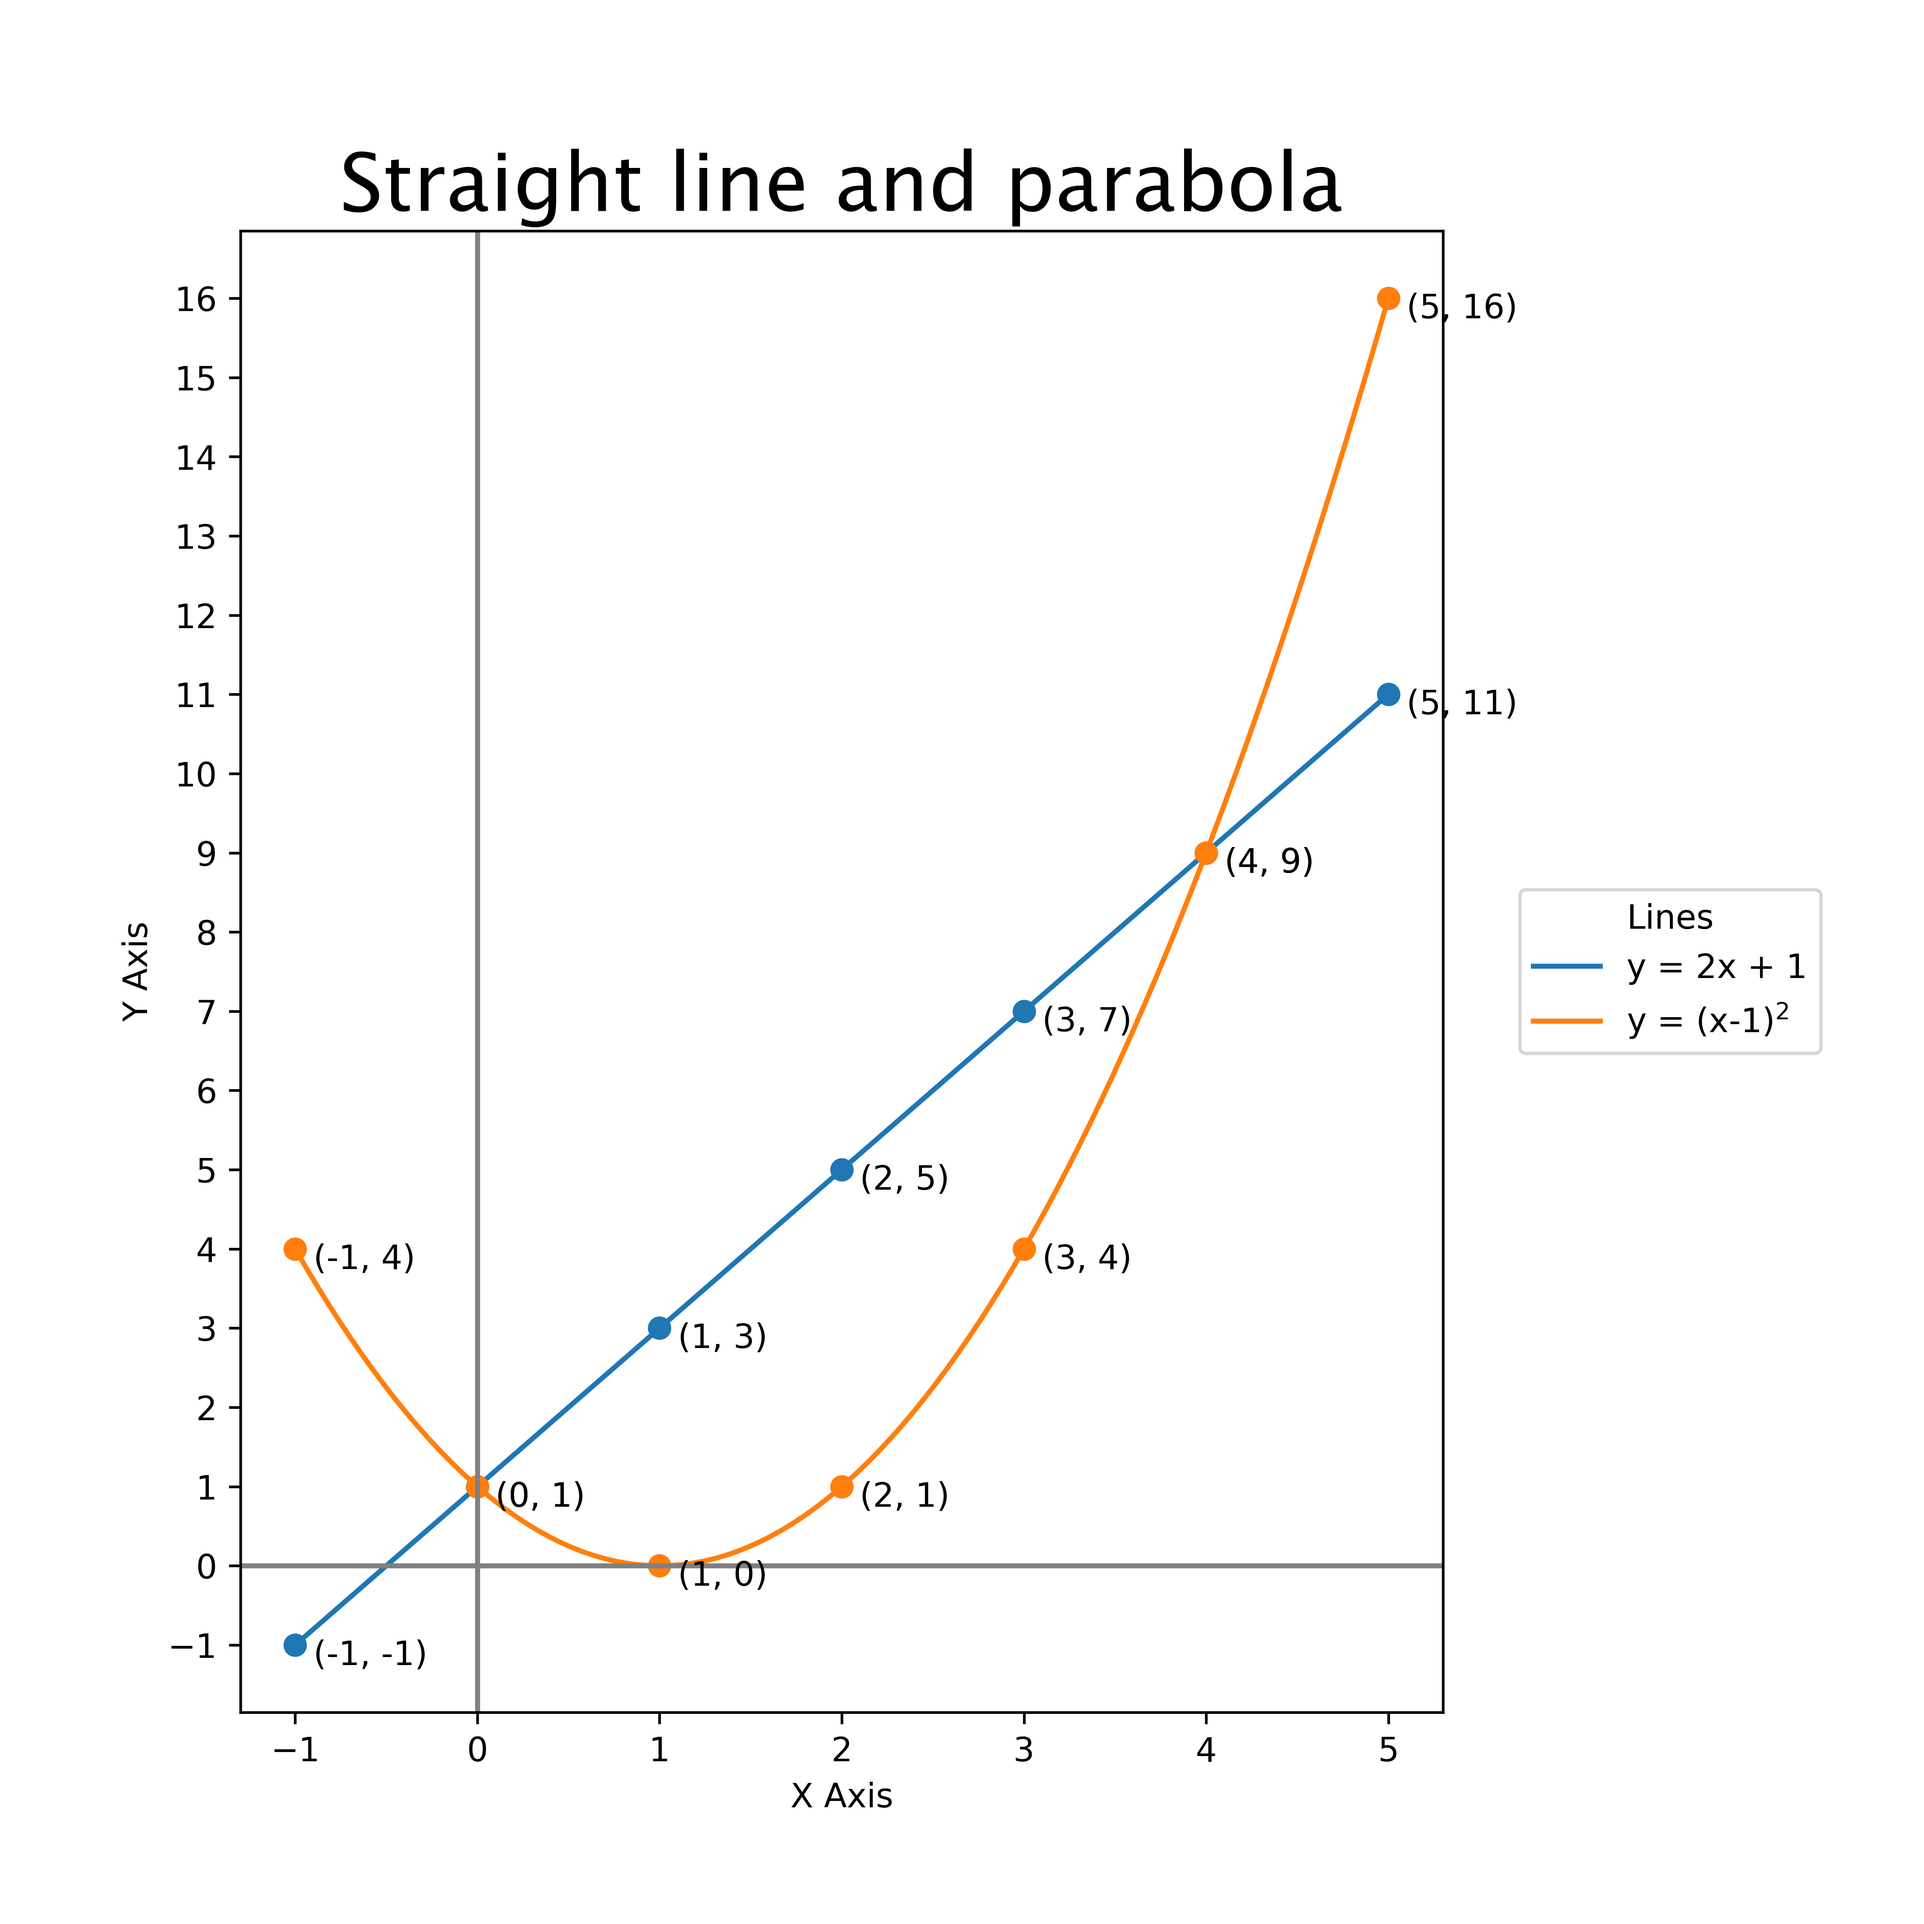
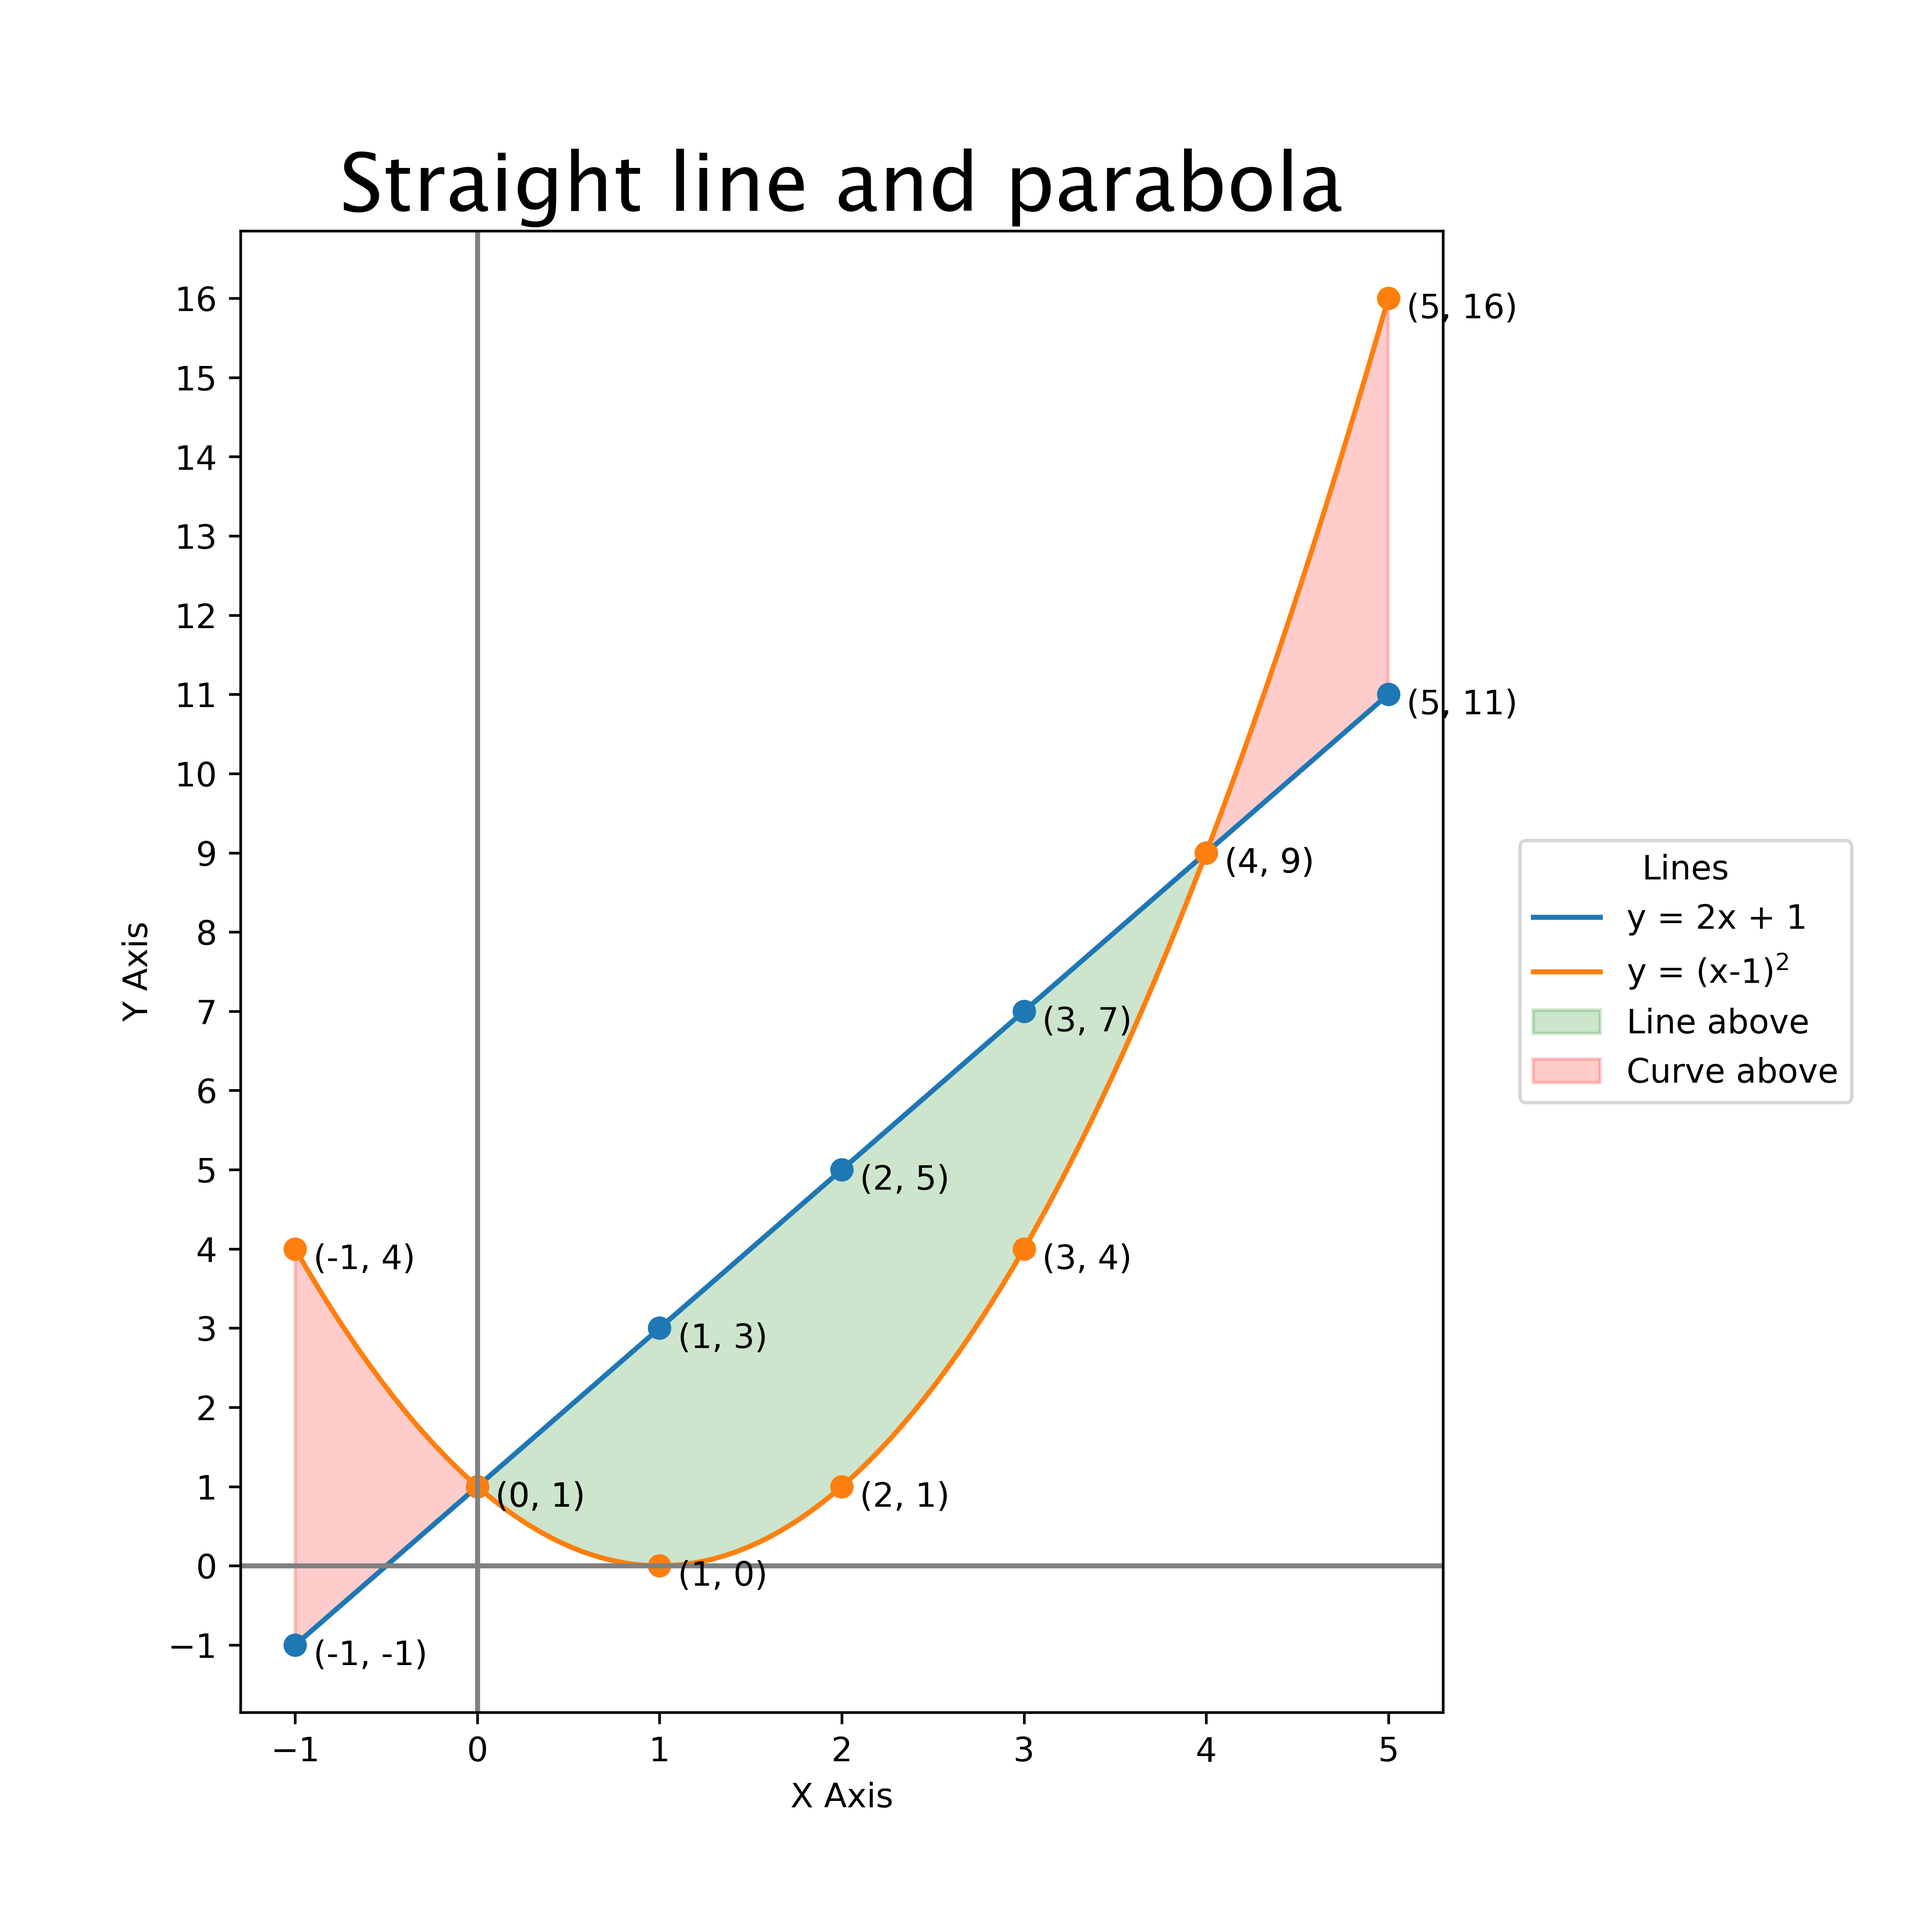
up

Changed region(s): [[0.125, 0.4375, 0.625, 0.8438], [0.7812, 0.4375, 0.9688, 0.5625], [0.625, 0.1875, 0.75, 0.4375]]

diff --git a/docs/matplotlib/files/histogram.py b/docs/matplotlib/files/histogram.py
@@ -1,29 +1,33 @@
 import matplotlib.pyplot as plt
 import numpy as np
+from statistics import median
 from pathlib import Path
 
-def plot_histogram(x, title):
-    currfile_dir = Path(__file__).parent
-    plt.style.use('_mpl-gallery')
 
+def plot_histogram(x, title, median):
+    # plt.style.use('_mpl-gallery')
     # plot:
     fig, ax = plt.subplots(figsize=(10, 6))
     # The hist function returns three values: the counts of each bin in the histogram, the edges of the bins, and the patches used to create the histogram.
-    counts, _, _ = ax.hist(x, linewidth=0.5, edgecolor="white")
+    counts, _, _ = ax.hist(x, bins=np.arange(min(x), max(x)+2), linewidth=0.5, edgecolor="white")
     # set the x and y ticks
-    plt.xticks(range(min(x), max(x)+1))
+    ticks_offset = 0.5
+    plt.xticks(np.arange(min(x), max(x)+1) + ticks_offset, np.arange(min(x), max(x)+1))
     plt.yticks(range(0, int(max(counts))+1))
     # set the x label
     plt.xlabel(title)
     plt.ylabel('Counts')
     plt.title(title)
-    filename = title.replace(" ", "_")
+    # Add a x, y axis lines through the origin
+    plt.axvline(median + ticks_offset, color="k", linestyle="--")
+    plt.text(median + ticks_offset + 0.1, 1, f"Median = {median:.1f}", rotation=90, color="k", fontsize=16)
     # adjust the margins of the plot
     plt.subplots_adjust(bottom=0.07, left=0.07, top=0.95)
     # Save figure (dpi 300 is good when saving so graph has high resolution)
+    currfile_dir = Path(__file__).parent
+    filename = title.replace(" ", "_")
     filepath = currfile_dir / (f"{filename}.png")
     plt.savefig(filepath, dpi=600)
-
     # Show plot
     plt.show()
 
@@ -31,9 +35,11 @@ def plot_histogram(x, title):
 def main():
     # make data
     x = [10, 8, 12, 11, 12, 18, 13, 11, 12, 11, 12, 12, 13, 14]
-    # call the function to plot the data
+    mymedian = median(x)
+    print(mymedian)
     title = 'Vending Machine Sales'
-    plot_histogram(x, title)
+    # call the function to plot the data
+    plot_histogram(x, title, mymedian)
 
 
 if __name__ == '__main__':

diff --git a/docs/matplotlib/files/plot_2.py b/docs/matplotlib/files/plot_2.py
@@ -45,6 +45,15 @@ def plot_line_graph(title, equations, labels):
                 plt.text(xi+0.1, yi-0.25, f"({xi}, {int(yi)})", fontsize=10)
             else:
                 plt.text(xi+0.1, yi-0.25, f"({xi}, {yi:.2f})", fontsize=10)
+
+    # Calculate the corresponding y values for both lines
+    y1 = eval(equations[0])
+    y2 = eval(equations[1])            
+    # Fill the area between the two lines
+    plt.fill_between(x, y1, y2, where=(y1 > y2), interpolate=True, color='green', alpha=0.2, label="Line above")
+    plt.fill_between(x, y1, y2, where=(y1 <= y2), interpolate=True, color='red', alpha=0.2, label="Curve above")
+
+    
     # Add a x, y axis lines through the origin
     plt.axhline(0, color="gray", linestyle="-")
     plt.axvline(0, color="gray", linestyle="-")

diff --git a/docs/matplotlib/files/pie_chart_earth.py b/docs/matplotlib/files/pie_chart_earth.py
@@ -12,6 +12,8 @@ def plot_pie_chart(data, labels, full_labels, title):
     wedges, texts, autotexts = plt.pie(data, labels=labels, autopct=lambda pct: f"{pct:.0f}%", explode=explode, pctdistance=0.8, colors=colors, startangle = 90)
     # Set the font size  for the data labels
     plt.setp(texts, size=16)
+
+    plt.tight_layout()
     # Set the font size and weight for the data labels
     plt.setp(autotexts, size=12, weight="bold")
     # Set the aspect ratio of the plot to be equal

diff --git a/docs/matplotlib/matplotlib_plot_2.rst b/docs/matplotlib/matplotlib_plot_2.rst
@@ -144,6 +144,19 @@ This line creates a lambda function from the equation string using the `eval` fu
 
 These lines label each point on the graph where x is an integer between -1 and 5. A nested for loop is used to iterate over these x values. For each x value, the corresponding y value is calculated using the lambda function created earlier. A point is plotted at this (x,y) location using the `plot` function with marker style `"o"` to indicate that a circle should be used as the marker. Then, text is added to label this point using the `text` function from the `pyplot` module. The text is positioned slightly to the right and below the point, and the text string is formatted using an f-string to include the x and y values. If the y value is an integer, it is displayed as an integer, otherwise it is displayed with two decimal places.
 
+    
+::
+
+    # Calculate the corresponding y values for both lines
+    y1 = eval(equations[0])
+    y2 = eval(equations[1])            
+    # Fill the area between the two lines
+    plt.fill_between(x, y1, y2, where=(y1 > y2), interpolate=True, color='green', alpha=0.2)
+    plt.fill_between(x, y1, y2, where=(y1 <= y2), interpolate=True, color='red', alpha=0.2)
+
+The `fill_between` function fills the area between two plotted lines. This code calculates the `y` values for both lines using the given equations and plots them. Then it uses the `fill_between` function to fill the area between the two lines with a color. The `where` parameter specifies a condition that determines which regions to fill. In this example, we fill the region where `y1 > y2` with green color and where `y1 <= y2` with red color. The `interpolate` parameter specifies whether to interpolate between the two lines to find the precise boundary of the filled region. The `alpha` parameter controls the transparency of the fill color.
+
+
 ::
 
     # Add a x, y axis lines through the origin

diff --git a/docs/matplotlib/matplotlib_histogram.rst b/docs/matplotlib/matplotlib_histogram.rst
@@ -2,4 +2,21 @@
 Matplotlib histogram
 ====================================================
 
-| Matplotlib can be used to draw a histogram.
+| Matplotlib can be used to draw a histogram.''
+----
+
+.. image:: images/Vending_Machine_Sales.png
+    :width: 600
+    :align: center
+
+----
+
+Python code
+-------------
+
+| The python code is below.
+| The code is heavily commented to indicate what each part is doing.
+
+.. literalinclude:: files/histogram.py
+    :linenos:
+
